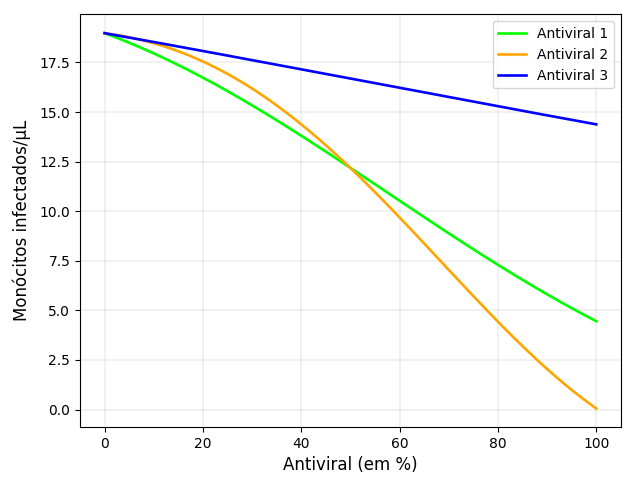
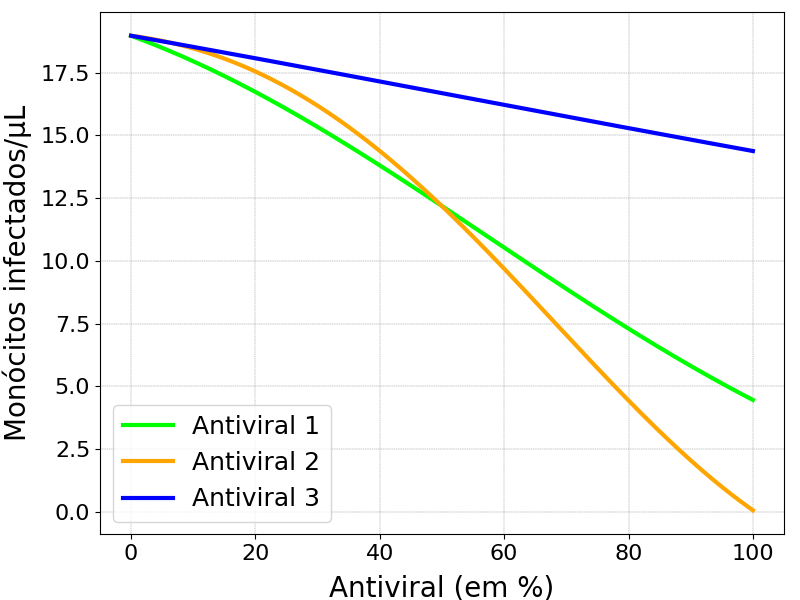
Increase font sizes in graphs for better readability

diff --git a/graph_from_csv_data.py b/graph_from_csv_data.py
@@ -11,19 +11,23 @@ def graph_3data_generator(csv1, csv2, csv3, eixo_y_label, nome,eixo_x,eixo_y):
     x2, y2 = data2[eixo_x], data2[eixo_y]
     x3, y3 = data3[eixo_x], data3[eixo_y]
 
-    fig, ax = plt.subplots()  # Creates the figure and axes
+    fig, ax = plt.subplots(figsize=(8, 6))  # Creates the figure and axes
     ax.set_facecolor("#FFFFFF")
     eixo_x_label = "Antiviral (em %)"
-    plt.subplots_adjust(right=0.97, top=0.97)
-    plt.xlabel(eixo_x_label, fontsize=12, labelpad=4)
-    plt.ylabel(eixo_y_label, fontsize=12, labelpad=6)
+    plt.subplots_adjust(right=0.98, top=0.98)
+    plt.xlabel(eixo_x_label, fontsize=20, labelpad=8)
+    plt.ylabel(eixo_y_label, fontsize=20, labelpad=6)
 
-    plt.plot(x1, y1, '#00FF00', label='Antiviral 1', linewidth=1.9)  # Plots the three curves
-    plt.plot(x2, y2, '#FFA500', label='Antiviral 2', linewidth=1.9)
-    plt.plot(x3, y3, '#0000FF', label='Antiviral 3', linewidth=1.9)
+    # Aumenta o tamanho da fonte dos valores nos eixos
+    ax.tick_params(axis='x', labelsize=16)
+    ax.tick_params(axis='y', labelsize=16)
 
-    plt.grid(color='gray', linestyle='-', linewidth=0.15) # Adds grid and legend
-    plt.legend()
+    plt.plot(x1, y1, '#00FF00', label='Antiviral 1', linewidth=3)  # Plots the three curves
+    plt.plot(x2, y2, '#FFA500', label='Antiviral 2', linewidth=3)
+    plt.plot(x3, y3, '#0000FF', label='Antiviral 3', linewidth=3)
+
+    plt.grid(color='gray', linestyle='--', linewidth=0.3) # Adds grid and legend
+    plt.legend(fontsize=18)
 
     final_name = nome + '.png'      # Saves the graph
     save_file(final_name)           # Saves the graph using the save_file function
@@ -31,9 +35,9 @@ def graph_3data_generator(csv1, csv2, csv3, eixo_y_label, nome,eixo_x,eixo_y):
 
 base_path = os.path.dirname(os.path.abspath(__file__))
 
-population_path = "viral_particles_antiviral" # "susceptible_monocytes_antiviral", "infected_monocytes_antiviral", "viral_particles_antiviral", "t_lymphocytes_antiviral"
-label_1 = "Particulas virais/uL"            # "Monocitos susceptiveis/uL", "Monocitos infectados/uL", "Particulas virais/uL","Linfocitos T/uL"
-eixo_y_label = "Partículas virais/\u03bcL"   # "Monócitos susceptíveis/\u03bcL", "Monócitos infectados/\u03bcL", "Partículas virais/\u03bcL","Linfócitos T/\u03bcL"
+population_path = "t_lymphocytes_antiviral" # Options: "susceptible_monocytes_antiviral", "infected_monocytes_antiviral", "viral_particles_antiviral", "t_lymphocytes_antiviral"
+label_1 = "Linfocitos T/uL"             # Options: "Monocitos susceptiveis/uL", "Monocitos infectados/uL", "Particulas virais/uL","Linfocitos T/uL"
+eixo_y_label = "Linfócitos T/\u03bcL"    # Options:"Monócitos susceptíveis/\u03bcL", "Monócitos infectados/\u03bcL", "Partículas virais/\u03bcL","Linfócitos T/\u03bcL"
 
 # Define the paths to the CSV files for the three datasets
 csv1_ref = os.path.join(base_path, "results", population_path+"_rho.csv")  # Path for the first dataset
@@ -46,7 +50,7 @@ graph_3data_generator(
     csv2_ref,           # Second dataset
     csv3_ref,           # Third dataset
     eixo_y_label,       # Label for the Y-axis
-    'grafico-v-3data',  # Name of the output graph file
+    'grafico-z-3data',  # Name of the output graph file
     "Antiviral",        # Label for the X-axis
     label_1             # Label for the Y-axis data
 )
